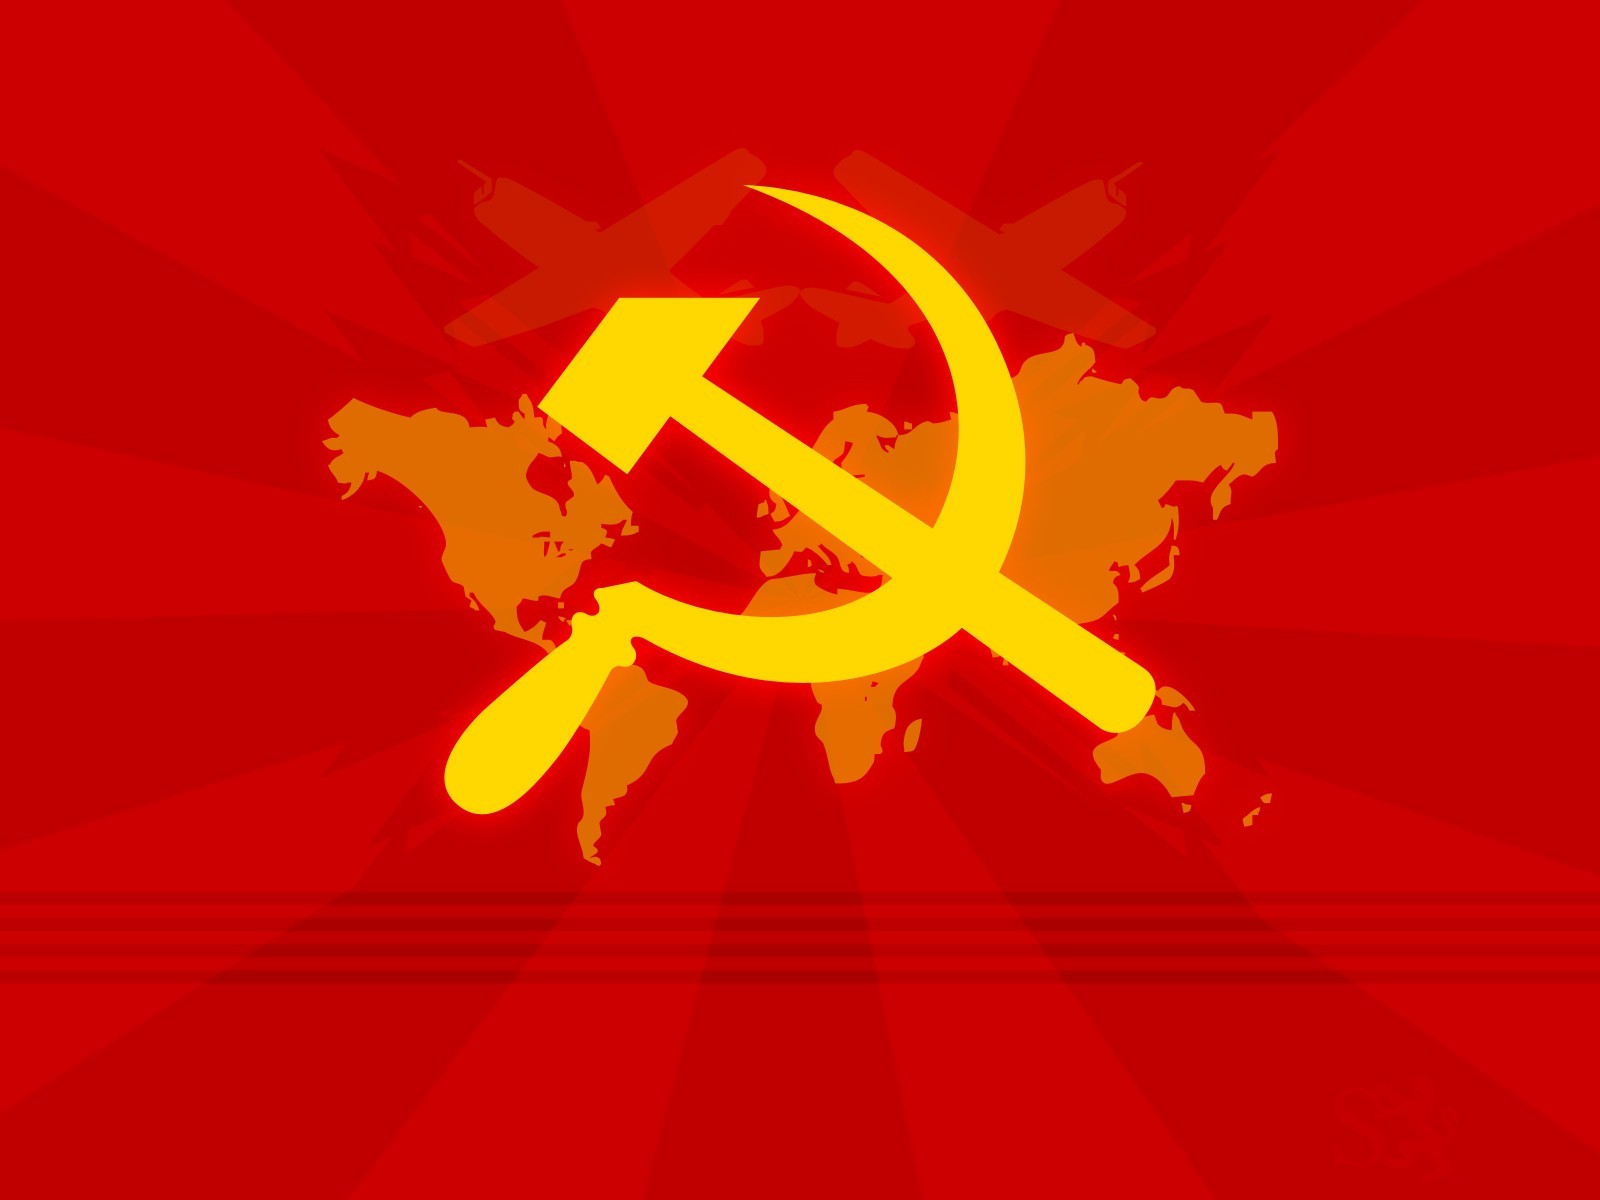
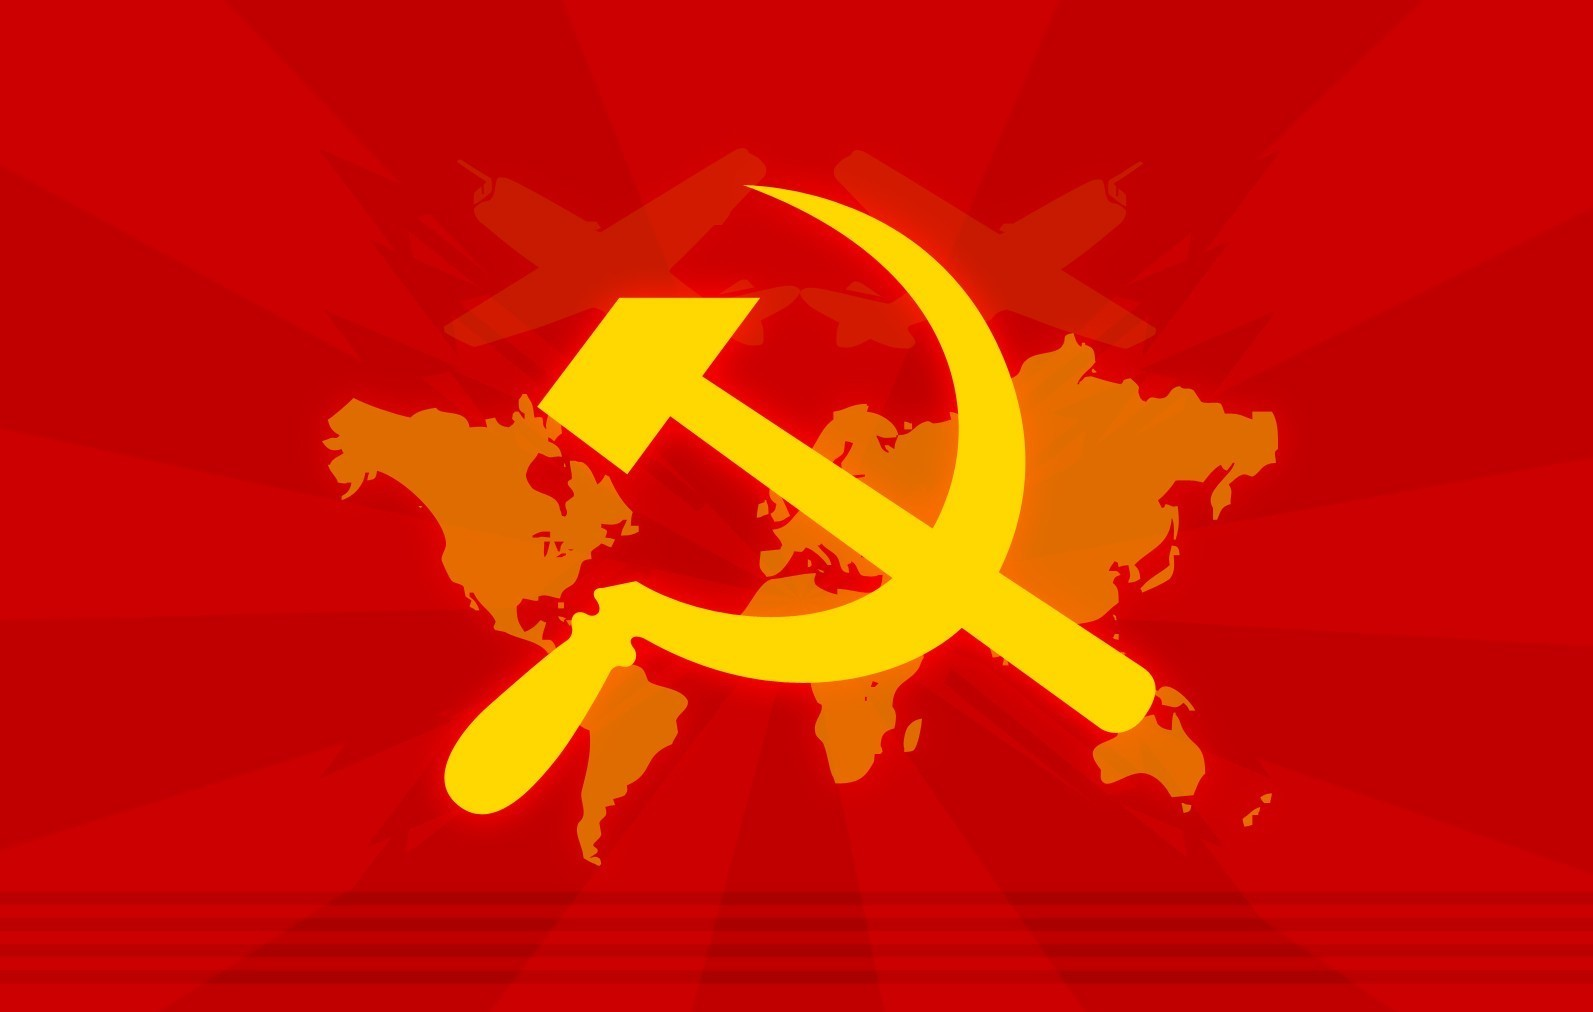
Site updated: 2021-05-22 10:46:56

Changed region(s): [[0.123, 0.1225, 0.8613, 0.9802], [0.6152, 0.8577, 0.7382, 0.9802]]

diff --git a/index.html b/index.html
@@ -152,7 +152,7 @@
 </nav>
 
     <div class="banner intro-2" id="background" parallax=true
-         style="background: url('/img/home.png') no-repeat center center;
+         style="background: url('/img/home.jpg') no-repeat center center;
            background-size: cover;">
       <div class="full-bg-img">
         <div class="mask flex-center" style="background-color: rgba(0, 0, 0, 0.3)">

diff --git a/page/2/index.html b/page/2/index.html
@@ -152,7 +152,7 @@
 </nav>
 
     <div class="banner intro-2" id="background" parallax=true
-         style="background: url('/img/home.png') no-repeat center center;
+         style="background: url('/img/home.jpg') no-repeat center center;
            background-size: cover;">
       <div class="full-bg-img">
         <div class="mask flex-center" style="background-color: rgba(0, 0, 0, 0.3)">
